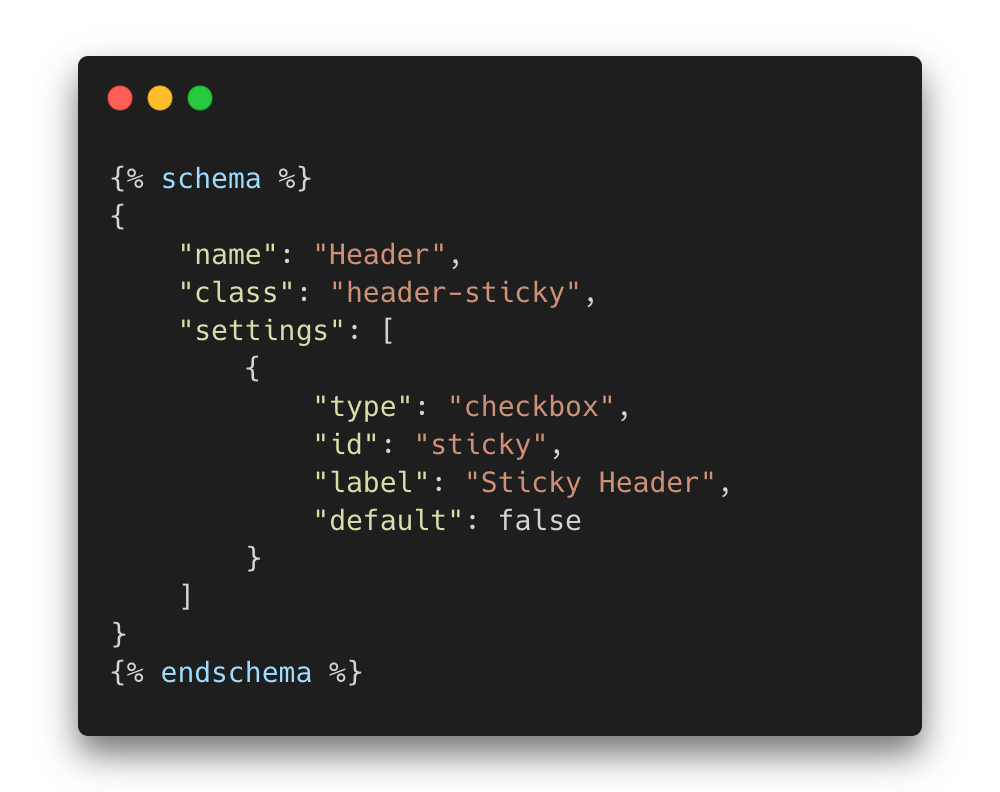
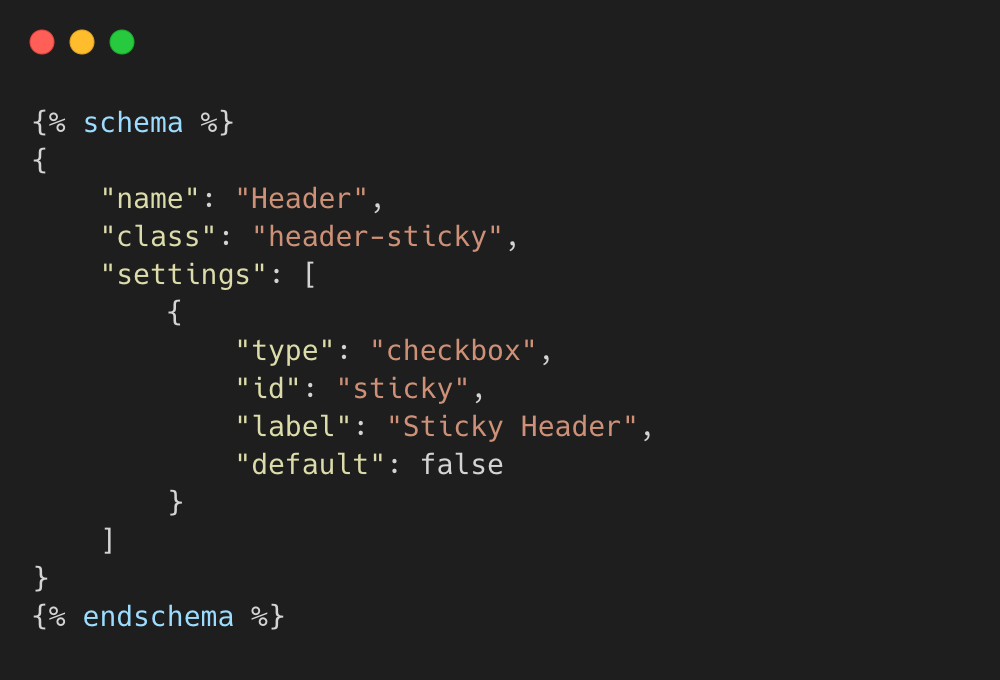
Update Carbon Test

diff --git a/posts/alpine-based-collection.md b/posts/alpine-based-collection.md
@@ -237,4 +237,4 @@ I feel having this split into 2 separate arrays based on your master product arr
 
 My logic there could be off, but I feel keeping those actions separate in the functions is more maintainable and useful than smashing them together.
 
-<img class="mx-auto max-w-md w-full" src="/img/shopify-header-schema.png"/>
+<img class="mx-auto max-w-md w-full rounded shadow-lg" src="/img/shopify-header-schema.png"/>
